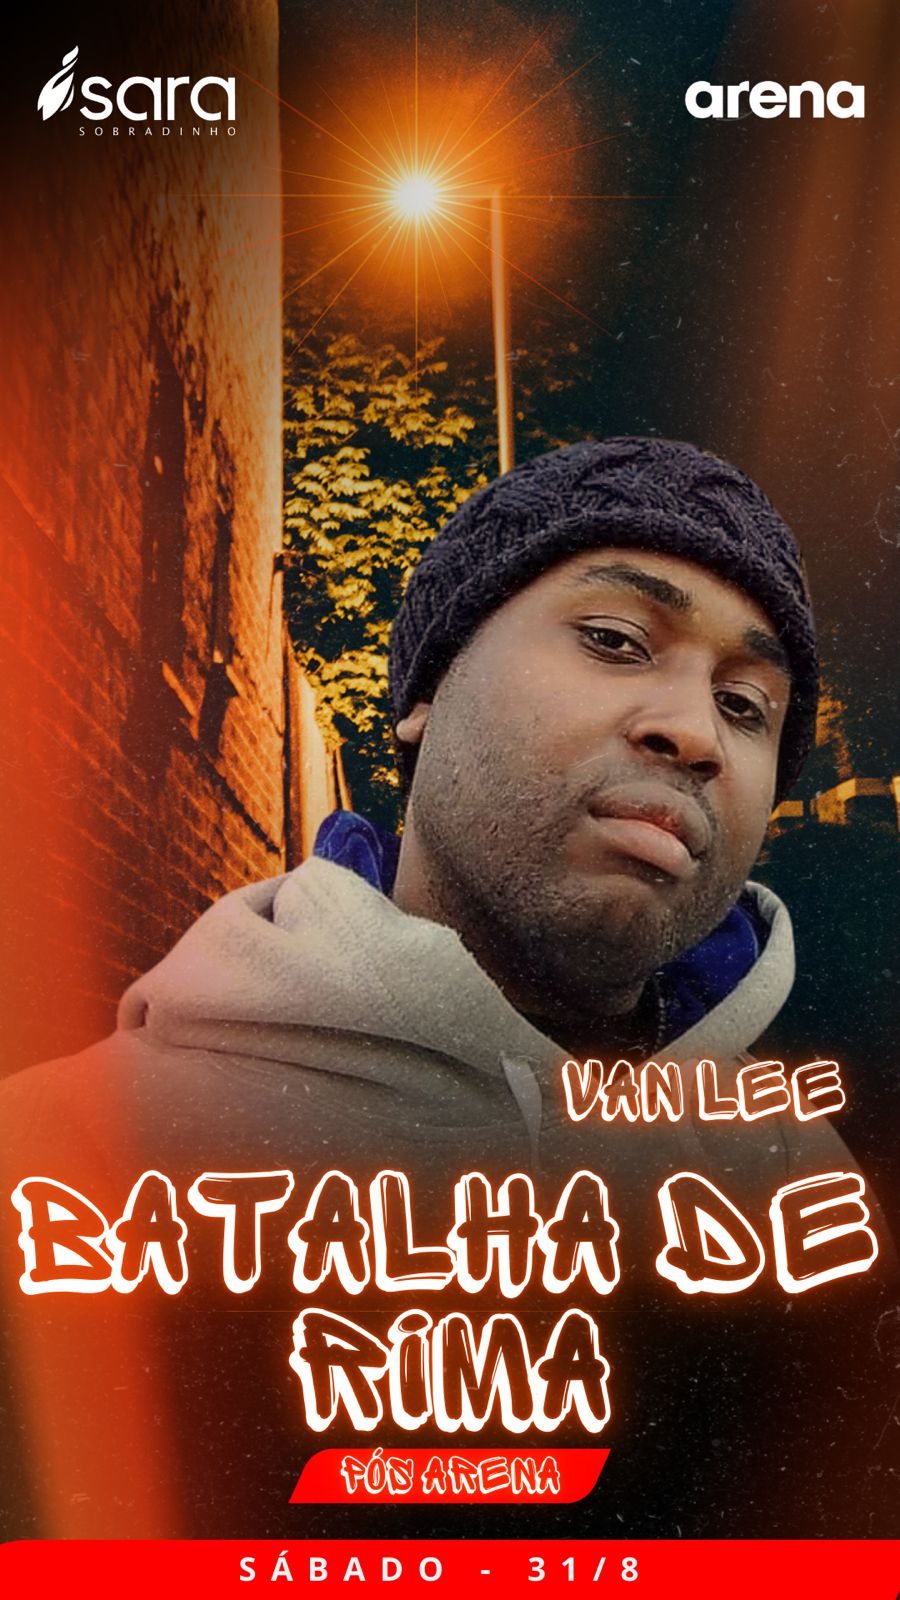
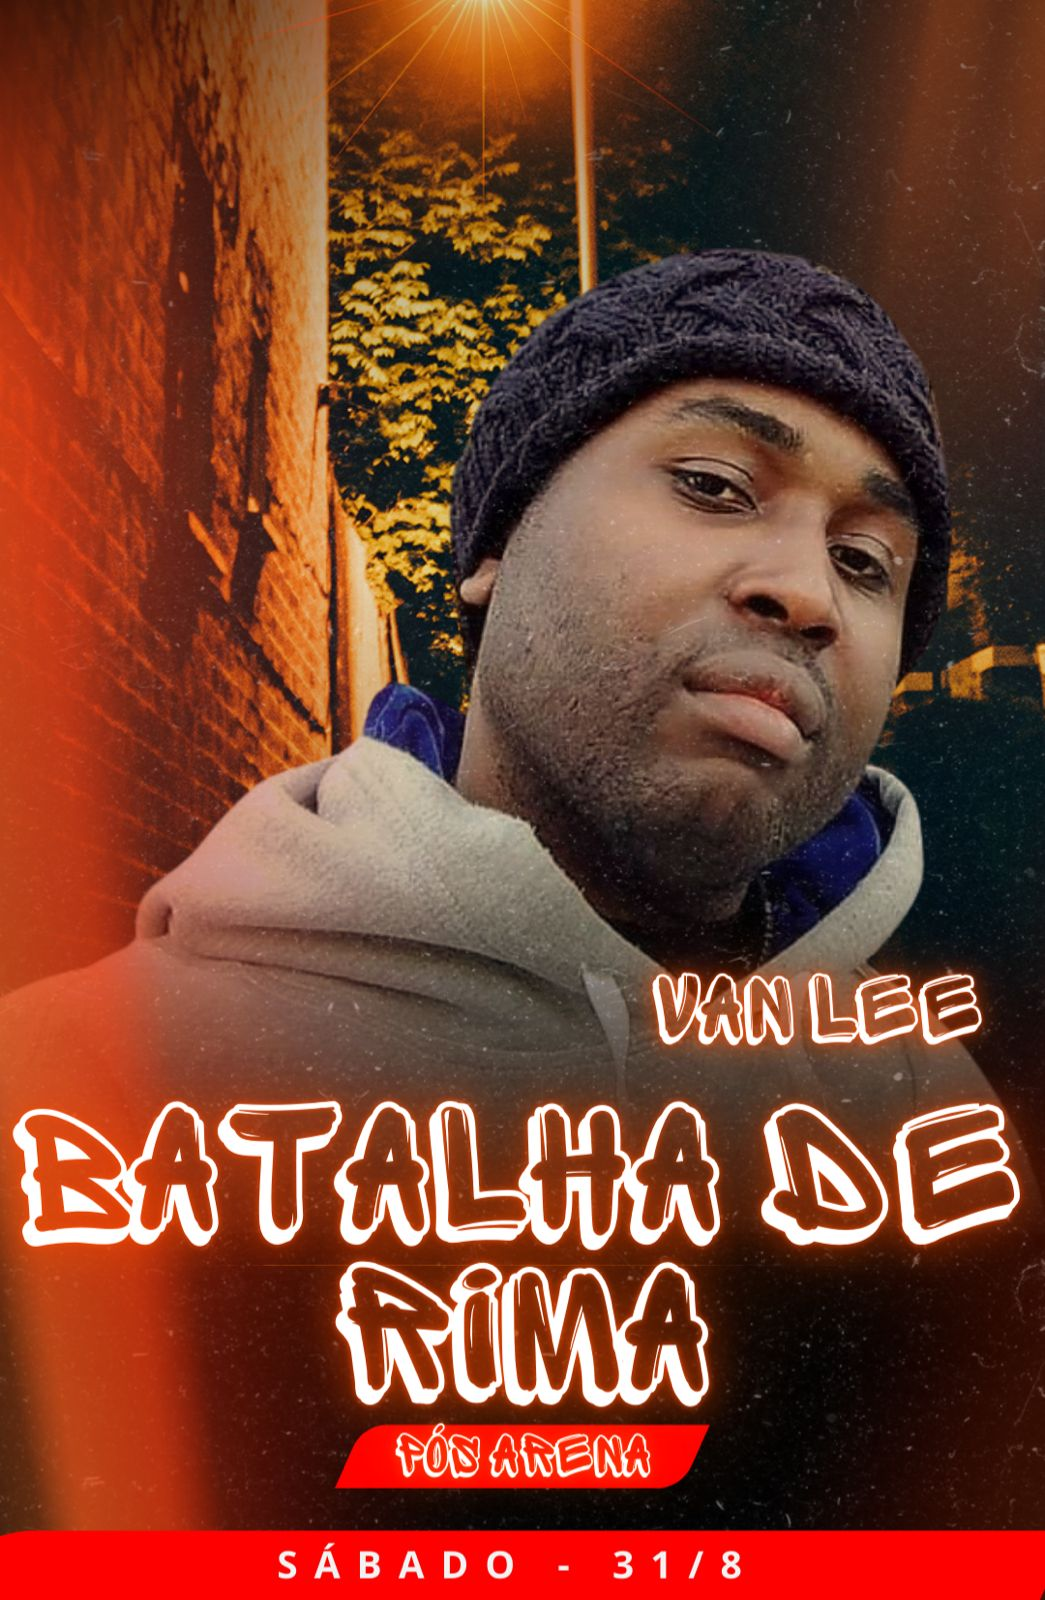
atualização

diff --git a/index.html b/index.html
@@ -20,7 +20,7 @@
   }
   .image-gallery img {
     max-width: 170px; /* Garante que as imagens se ajustem ao tamanho do container */
-    height: 210px;
+    height: 270px;
     display: inline-flex; /* Permite que as imagens fiquem lado a lado */
     margin-right: 10px; /* Espaçamento entre as imagens (opcional) */
     object-fit: cover;
@@ -124,12 +124,15 @@
             <img src="imagem/l.jpeg" width="385" height="50"> <br> <hr>
                <div class="image-gallery" id="image-gallery">
            <div class="scrolling-wrapper" id="scrollingwrapper">
+     
+     
+           
                 <!-- As imagens serão adicionadas aqui dinamicamente -->
                 <!-- Aqui serão adicionadas as imagens dinamicamente via JavaScript -->
            <hr>
           
-           <img src="imagem/bp.jpeg" width= "300" height="500" alt="Imagem 6"> 
-           <img src="imagem/vanlee.jpeg" width= "300" height="500" alt="Imagem 6"> 
+           <img src="imagem/bp.jpeg" width= "300" height="650" alt="Imagem 6"> 
+           <img src="imagem/vanlee.jpeg" width= "300" height="650" alt="Imagem 6"> 
             <img src="imagem/revisao2.jpeg" width= "300" height="500" alt="Imagem 6"> 
 
            <hr>
